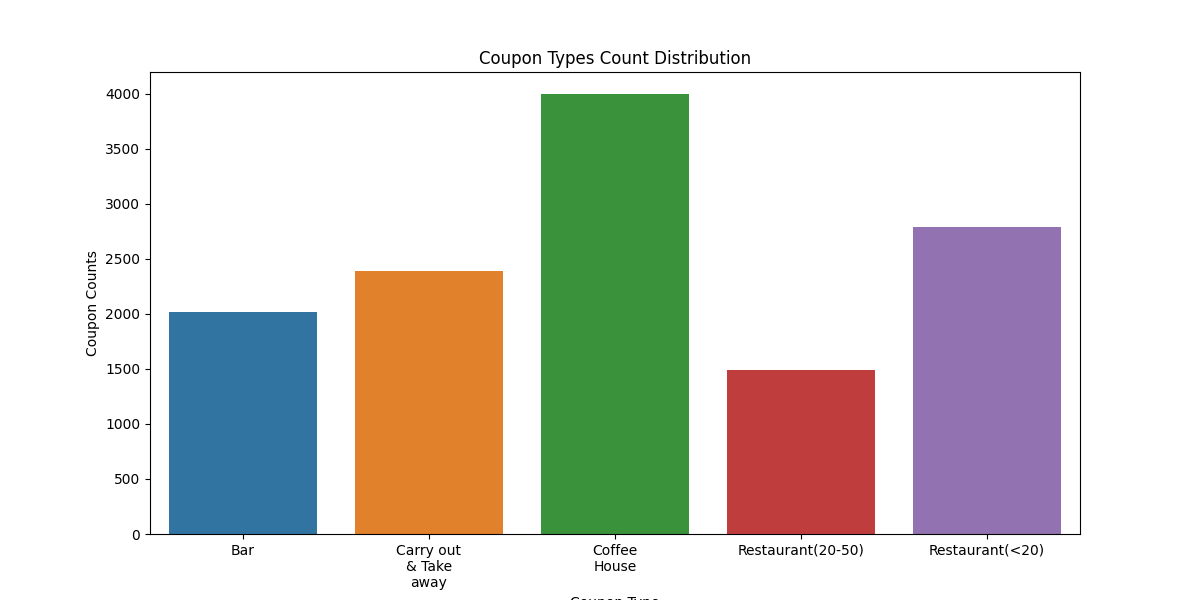
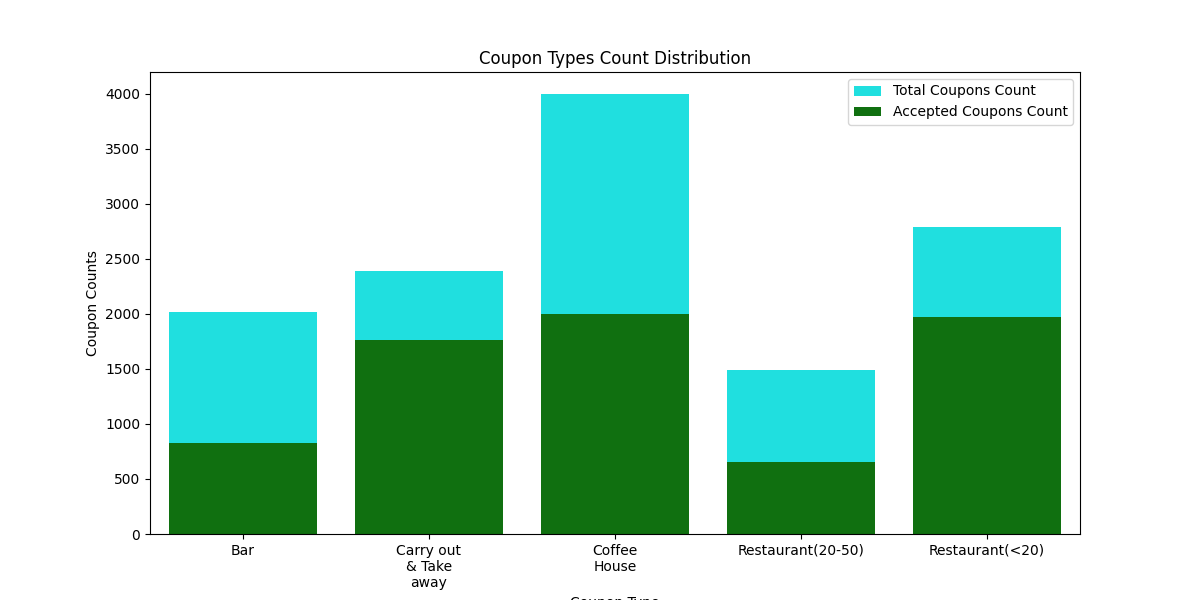
Add coupon types distribution

Changed region(s): [[0.1233, 0.15, 0.8942, 0.9], [0.7092, 0.12, 0.8942, 0.21]]

diff --git a/README.md b/README.md
@@ -18,20 +18,58 @@ The goal of this project is to use what you know about visualizations and probab
 ### Fix column name
 * <b><i>passanger</i><b> column: Fixed typo of column name to correct spelling <i>passenger</i>
 
-## General data distribution visualization.
+## General data distribution visualization
 ![Image](/images/coupons_acceptance_proportion.png)
 
 **Description:** Overall coupons acceptance is at 56.84 %.
+ 
 <br>
 <br>
 ![Image](/images/coupons_types_distribution.png)
 
-**Description:** Most number of coupons distribution was for Coffee House and least number was for Restaurant(20-50).
+<table>
+    <tr>
+        <th>Coupon Type</th>
+        <th>Total Coupon Count</th>
+        <th>Accepted Coupon Count</th>
+        <th>Acceptance Proportion</th>
+    </tr>
+        <td>Bar</td>
+        <td>2017</td>
+        <td>827</td>
+        <td>41.00</td>
+    <tr>
+        <td>Carry out & Take away</td>
+        <td><2393/td>
+        <td>1760</td>
+        <td>73.55</td>
+    </tr>
+    <tr>
+        <td>Coffee House</td>
+        <td>3996</td>
+        <td>1995</td>
+        <td>49.92</td>
+    </tr>
+    <tr>
+        <td>Restaurant(20-50)</td>
+        <td>1492</td>
+        <td>658</td>
+        <td>44.10</td>
+    </tr>
+    <tr>
+        <td>Restaurant(<20)</td>
+        <td>2786</td>
+        <td>1970</td>
+        <td>70.71</td>
+    </tr>
+</table>
+**Description:** Most number of coupons distribution was for Coffee House and least number was for Restaurant(20-50)
+
 <br>
 <br>
 ![Image](/images/temperature_histogram.png)
 
-**Description:** Sunny day has most number of coupons distribution.
+**Description:** Sunny day has most number of coupons acceptance
 
 
 ## EDA Summary
